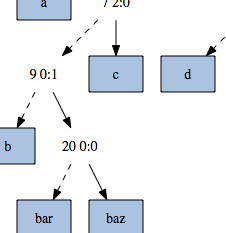
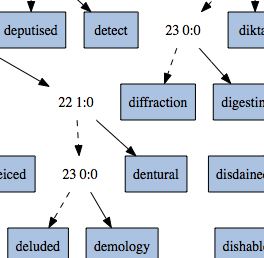
Added an example of a 512-word dictionary to graph.

diff --git a/readme.html b/readme.html
@@ -48,17 +48,17 @@
 
 <h2><a id = "preamble:" name = "preamble:">Description</a></h2>
 
-<p><img alt = "Example of trie." src = "web/trie.png" width = 226 height = 233></p>
+<p><img alt = "Example of trie." src = "web/trie.png" width = 264 height = 258></p>
 
-<p>An <a href = "#tag:&lt;N&gt;Trie">&lt;N&gt;Trie</a> is a trie of byte-strings ended with <code>NUL</code>, compatible with any byte-encoding with a null-terminator; in particular, <code>C</code> strings, including <a href = "https://en.wikipedia.org/wiki/UTF-8#Modified_UTF-8">modified UTF-8</a>.</p>
+<p>An <a href = "#tag:&lt;N&gt;Trie">&lt;N&gt;Trie</a> is a trie of byte-strings ended with <code>NUL</code>, compatible with any byte-encoding with a null-terminator; in particular, <code>C</code> strings, including <a href = "https://en.wikipedia.org/wiki/UTF-8#Modified_UTF-8">modified UTF-8</a>. It can be seen as a <a href = "https://en.wikipedia.org/wiki/Radix_tree">binary radix trie</a> or <a href = "https://scholar.google.ca/scholar?q=Morrison%2C+1968+PATRICiA">Morrison, 1968 PATRICiA</a>. The branches do not store data on the strings, only the positions where the strings are different.</p>
 
-<p>It has the same asymptotic run-time as keeping a sorted array of pointers, but lookup is faster because it keeps an index; likewise insertion is slower, (asymptotically, it still has to lookup to insert,) because it has to update that index. Experimentally, insertion performs linearly worse, and lookup performs logarithmically worse, then a hash <code>Set</code> starting at about 100 items. However, advantages of this data structure are,</p>
+<p>It has the same asymptotic run-time as keeping a sorted array of pointers, but lookup is faster because it keeps an index; likewise insertion is slower, (asymptotically, it still has to lookup to insert,) because it has to update that index. Experimentally, insertion performs linearly worse, and lookup performs logarithmically worse, then a hash <code>Set</code> starting at about 100 items. However, advantages of this data structure over a hash include,</p>
 
 <ul>
-	<li>because it is deterministic, a stable pointer suffices instead of a node -- one can insert the same data into multiple tries;</li>
-	<li>for the same reason, it has no need of a hash function;</li>
-	<li>the keys are packed and in order;</li>
-	<li>moreover, it is easy to search for like keys.</li>
+	<li>a stable pointer suffices instead of a node probably means one less pointer indirection on object-oriented structures because it is a one-to-one mapping;</li>
+	<li>for the same reason, one can insert the same data into multiple tries;</li>
+	<li>it is naturally packed and in order by dictionary bit on key without a hash function;</li>
+	<li>it is easy to search for like keys.</li>
 </ul>
 
 <p><code>Array.h</code> must be present. <code>&lt;N&gt;Trie</code> is not synchronised. Errors are returned with <code>errno</code>. The parameters are <code>#define</code> preprocessor macros, and are all undefined at the end of the file for convenience. <code>assert.h</code> is used; to stop assertions, use <code>#define NDEBUG</code> before inclusion.</p>
@@ -135,8 +135,6 @@
 <p>To initialise it to an idle state, see <a href = "#fn:&lt;N&gt;Trie">&lt;N&gt;Trie</a>, <code>TRIE_IDLE</code>, <code>{0}</code> (<code>C99</code>), or being <code>static</code>.</p>
 
 <p>A full binary tree stored semi-implicitly in two arrays: one as the branches backed by one as pointers-to-<a href = "#typedef:&lt;PN&gt;Type">&lt;PN&gt;Type</a> as leaves. We take two arrays because it speeds up iteration as the leaves are also an array sorted by key, it is &#927;(1) instead of &#927;(log <code>items</code>) to get an example for comparison in insert, and experimetally it is slightly faster.</p>
-
-<p>It can be seen as a <a href = "https://en.wikipedia.org/wiki/Radix_tree">binary radix trie</a> or <a href = "https://scholar.google.ca/scholar?q=Morrison%2C+1968+PATRICiA">Morrison, 1968 PATRICiA</a>. The branches do not store data on the strings, only the positions where the strings are different.</p>
 
 <p><img alt = "States." src = "../web/states.png"></p>
 

diff --git a/src/Trie.h b/src/Trie.h
@@ -8,19 +8,25 @@
  An <tag:<N>Trie> is a trie of byte-strings ended with `NUL`, compatible with
  any byte-encoding with a null-terminator; in particular, `C` strings,
  including [modified UTF-8](https://en.wikipedia.org/wiki/UTF-8#Modified_UTF-8).
-
+ It can be seen as a
+ [binary radix trie](https://en.wikipedia.org/wiki/Radix_tree) or
+ <Morrison, 1968 PATRICiA>. The branches do not store data on the strings, only
+ the positions where the strings are different.
+ 
  It has the same asymptotic run-time as keeping a sorted array of pointers, but
  lookup is faster because it keeps an index; likewise insertion is slower,
  (asymptotically, it still has to lookup to insert,) because it has to update
  that index. Experimentally, insertion performs linearly worse, and lookup
  performs logarithmically worse, then a hash `Set` starting at about 100 items.
- However, advantages of this data structure are,
+ However, advantages of this data structure over a hash include,
 
- \* because it is deterministic, a stable pointer suffices instead of a node --
-    one can insert the same data into multiple tries;
- \* for the same reason, it has no need of a hash function;
- \* the keys are packed and in order;
- \* moreover, it is easy to search for like keys.
+ \* a stable pointer suffices instead of a node probably means one less pointer
+    indirection on object-oriented structures because it is a one-to-one
+    mapping;
+ \* for the same reason, one can insert the same data into multiple tries;
+ \* it is naturally packed and in order by dictionary bit on key without a hash
+    function;
+ \* it is easy to search for like keys.
 
  `Array.h` must be present. `<N>Trie` is not synchronised. Errors are returned
  with `errno`. The parameters are `#define` preprocessor macros, and are all
@@ -194,11 +200,6 @@ typedef PN_(Type) *PN_(Leaf);
  because it speeds up iteration as the leaves are also an array sorted by key,
  it is \O(1) instead of \O(log `items`) to get an example for comparison in
  insert, and experimetally it is slightly faster.
-
- It can be seen as a
- [binary radix trie](https://en.wikipedia.org/wiki/Radix_tree) or
- <Morrison, 1968 PATRICiA>. The branches do not store data on the strings, only
- the positions where the strings are different.
 
  ![States.](../web/states.png) */
 struct N_(Trie);

diff --git a/test/TestTrie.c b/test/TestTrie.c
@@ -350,6 +350,8 @@ static int test(void) {
 		}
 		for(e = 0; e < es_size; e++) fprintf(es[e].fp, "%lu\t%f\t%f\n",
 			(unsigned long)s, m_mean(&es[e].m), m_stddev(&es[e].m));
+		if(s != 512) continue;
+		trie_Str_graph(&trie, "graph/example.gv");
 	}
 	printf("Test passed.\n");
 	goto finally;

diff --git a/readme.md b/readme.md
@@ -13,14 +13,14 @@
 
 ![Example of trie.](web/trie.png)
 
-An [&lt;N&gt;Trie](#user-content-tag-8fc8a233) is a trie of byte\-strings ended with `NUL`, compatible with any byte\-encoding with a null\-terminator; in particular, `C` strings, including [modified UTF-8](https://en.wikipedia.org/wiki/UTF-8#Modified_UTF-8)\.
+An [&lt;N&gt;Trie](#user-content-tag-8fc8a233) is a trie of byte\-strings ended with `NUL`, compatible with any byte\-encoding with a null\-terminator; in particular, `C` strings, including [modified UTF-8](https://en.wikipedia.org/wiki/UTF-8#Modified_UTF-8)\. It can be seen as a [binary radix trie](https://en.wikipedia.org/wiki/Radix_tree) or [Morrison, 1968 PATRICiA](https://scholar.google.ca/scholar?q=Morrison%2C+1968+PATRICiA)\. The branches do not store data on the strings, only the positions where the strings are different\.
 
-It has the same asymptotic run\-time as keeping a sorted array of pointers, but lookup is faster because it keeps an index; likewise insertion is slower, \(asymptotically, it still has to lookup to insert,\) because it has to update that index\. Experimentally, insertion performs linearly worse, and lookup performs logarithmically worse, then a hash `Set` starting at about 100 items\. However, advantages of this data structure are,
+It has the same asymptotic run\-time as keeping a sorted array of pointers, but lookup is faster because it keeps an index; likewise insertion is slower, \(asymptotically, it still has to lookup to insert,\) because it has to update that index\. Experimentally, insertion performs linearly worse, and lookup performs logarithmically worse, then a hash `Set` starting at about 100 items\. However, advantages of this data structure over a hash include,
 
- * because it is deterministic, a stable pointer suffices instead of a node \-\- one can insert the same data into multiple tries;
- * for the same reason, it has no need of a hash function;
- * the keys are packed and in order;
- * moreover, it is easy to search for like keys\.
+ * a stable pointer suffices instead of a node probably means one less pointer indirection on object\-oriented structures because it is a one\-to\-one mapping;
+ * for the same reason, one can insert the same data into multiple tries;
+ * it is naturally packed and in order by dictionary bit on key without a hash function;
+ * it is easy to search for like keys\.
 
 `Array.h` must be present\. `<N>Trie` is not synchronised\. Errors are returned with `errno`\. The parameters are `#define` preprocessor macros, and are all undefined at the end of the file for convenience\. `assert.h` is used; to stop assertions, use `#define NDEBUG` before inclusion\.
 
@@ -85,8 +85,6 @@ Only used if `TRIE_TEST`\.
 To initialise it to an idle state, see [&lt;N&gt;Trie](#user-content-fn-8fc8a233), `TRIE_IDLE`, `{0}` \(`C99`\), or being `static`\.
 
 A full binary tree stored semi\-implicitly in two arrays: one as the branches backed by one as pointers\-to\-[&lt;PN&gt;Type](#user-content-typedef-c45e6761) as leaves\. We take two arrays because it speeds up iteration as the leaves are also an array sorted by key, it is &#927;\(1\) instead of &#927;\(log `items`\) to get an example for comparison in insert, and experimetally it is slightly faster\.
-
-It can be seen as a [binary radix trie](https://en.wikipedia.org/wiki/Radix_tree) or [Morrison, 1968 PATRICiA](https://scholar.google.ca/scholar?q=Morrison%2C+1968+PATRICiA)\. The branches do not store data on the strings, only the positions where the strings are different\.
 
 ![States.](../web/states.png)
 
